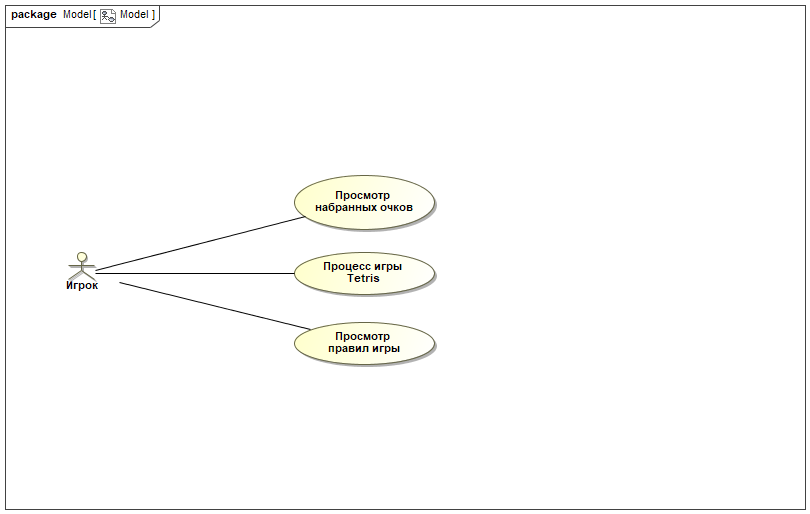
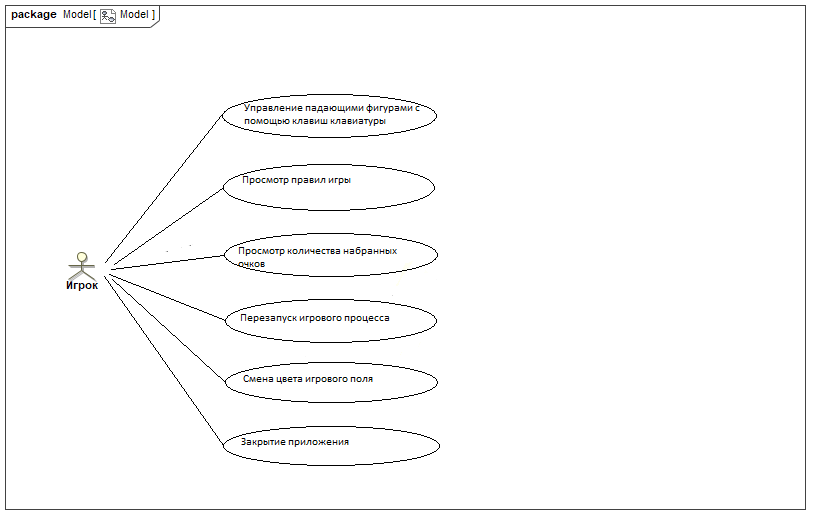
Update UseCase diagram and README.md

diff --git a/README.md b/README.md
@@ -40,7 +40,7 @@
 Для запуска игры необходим любой современный персональный компьютер.  
 
 ### **3.1 Функциональные требования**  
-1. Возможность управления фигурками (влево/вправо/вниз/поворот) клавишами клавиатуры.  
+1. Возможность управления падающими фигурками (влево/вправо/вниз/поворот) с помоью клаивш клавиатуры.  
 2. Возможность просмотра правил игры.  
 3. Возможность просмотра количества набранных очков (в заголовке окна).  
 4. Возможность перезапуска игрового процесса.  
